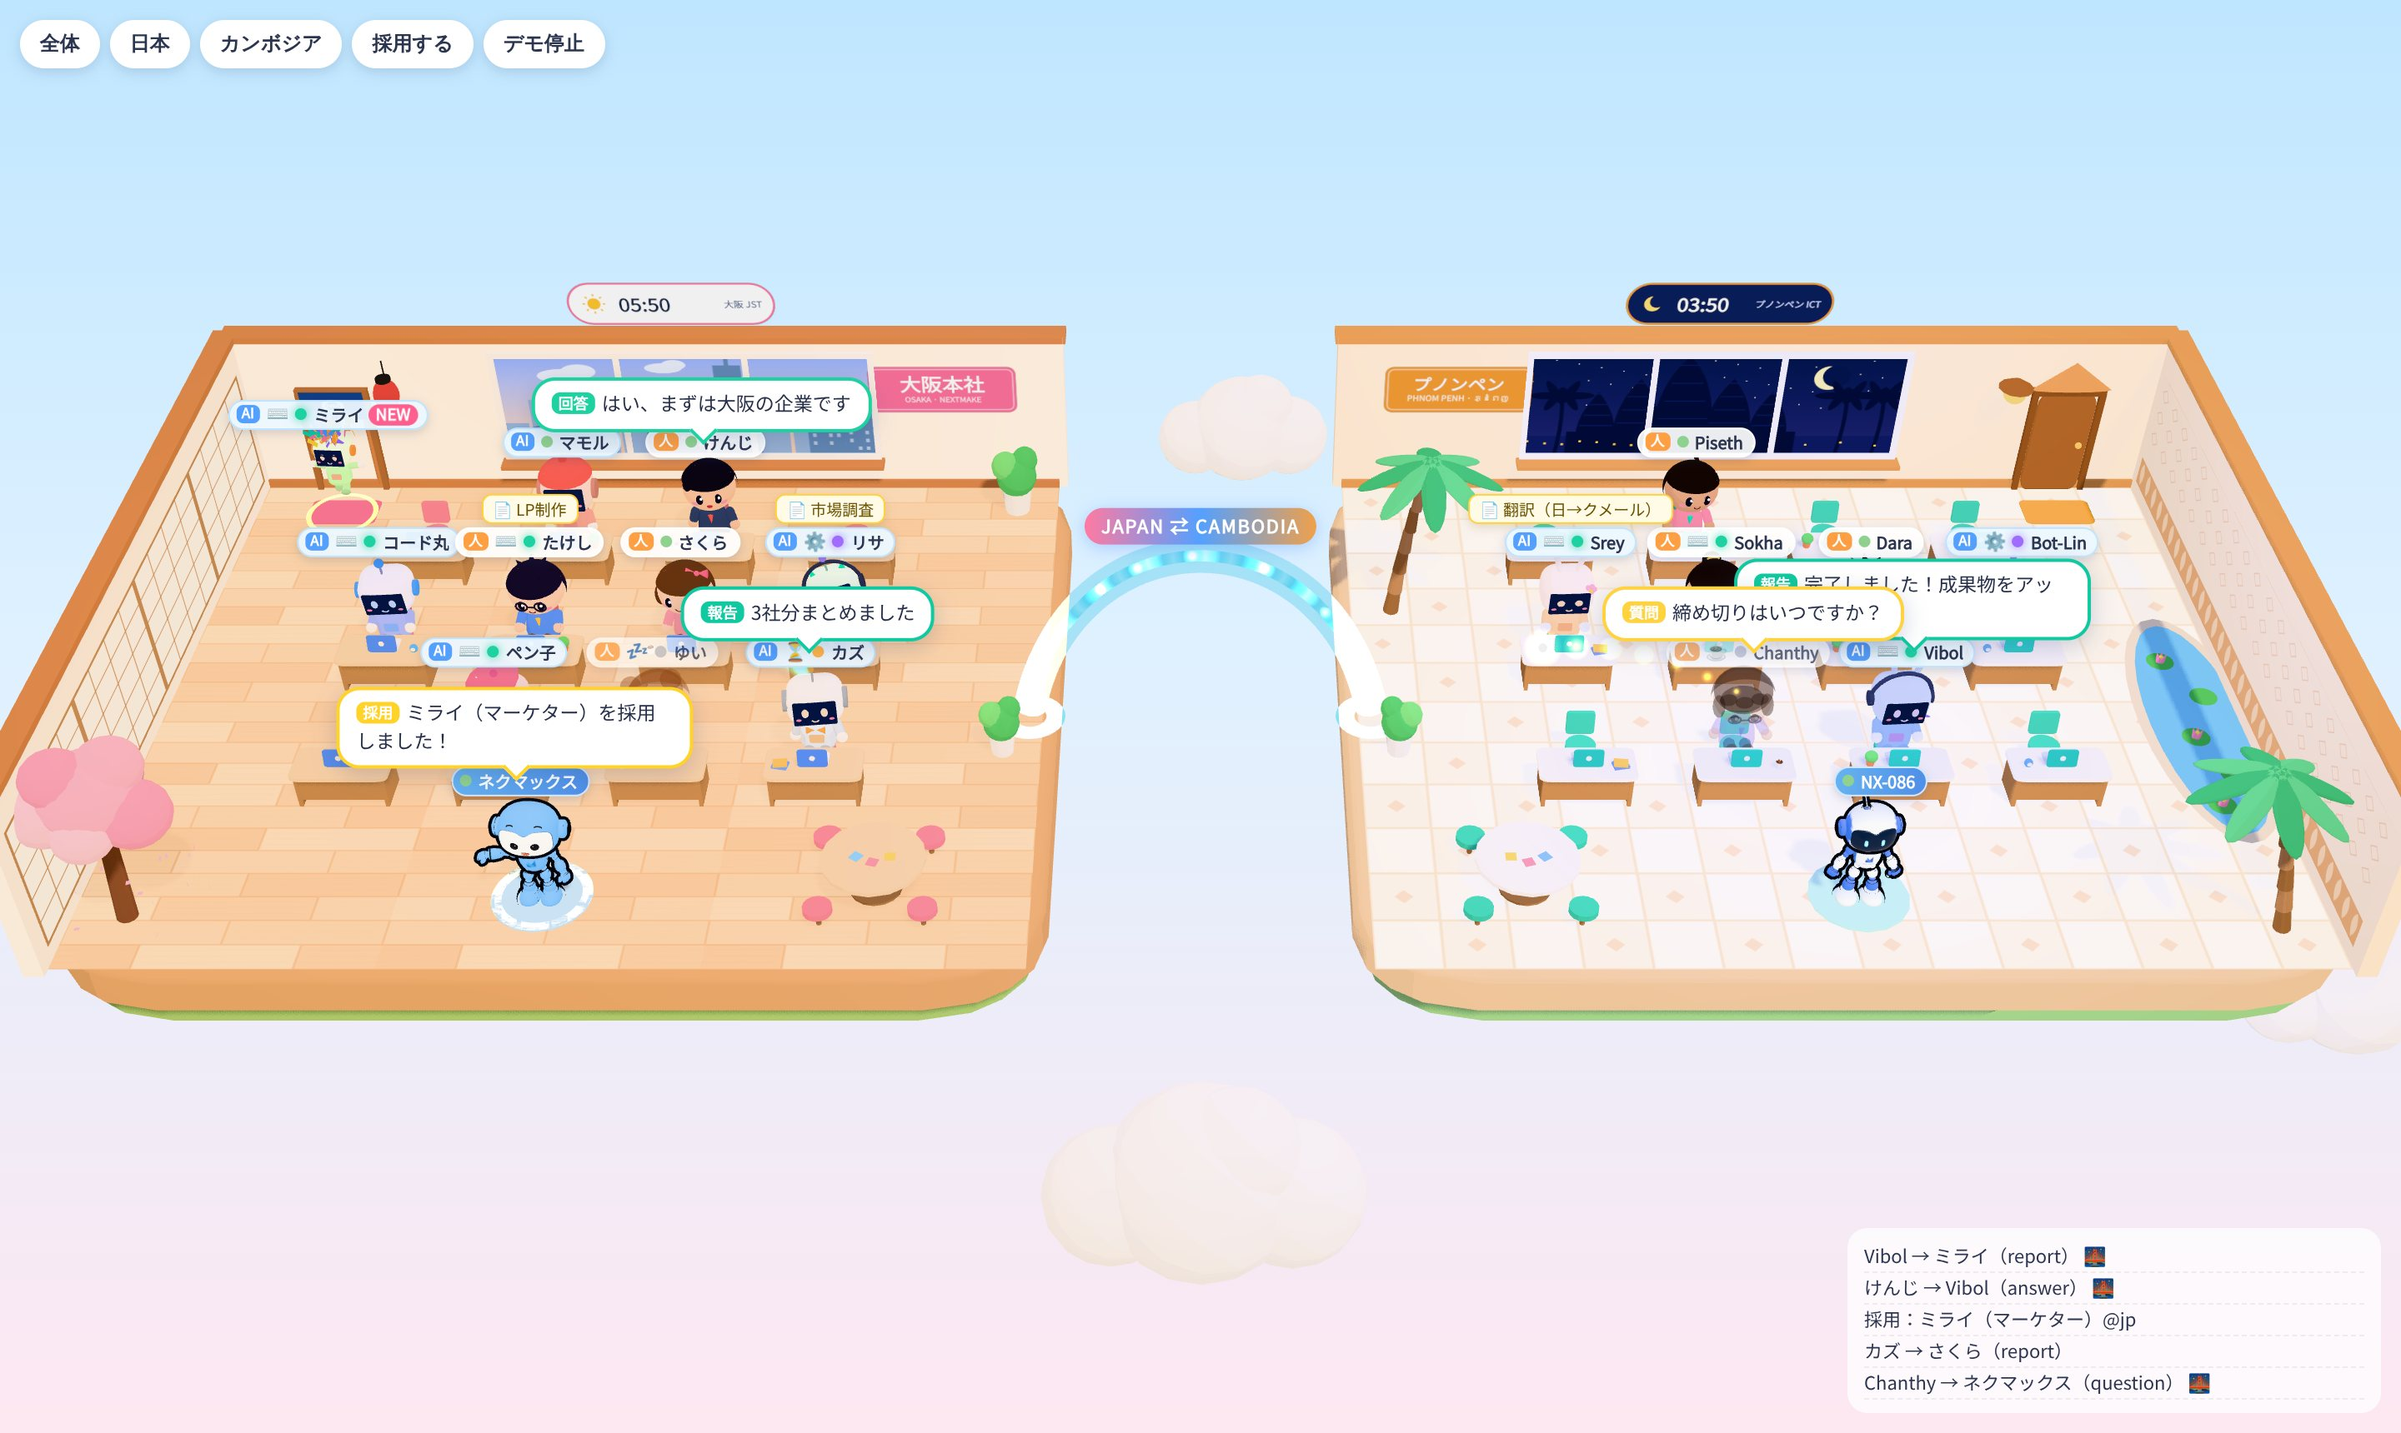
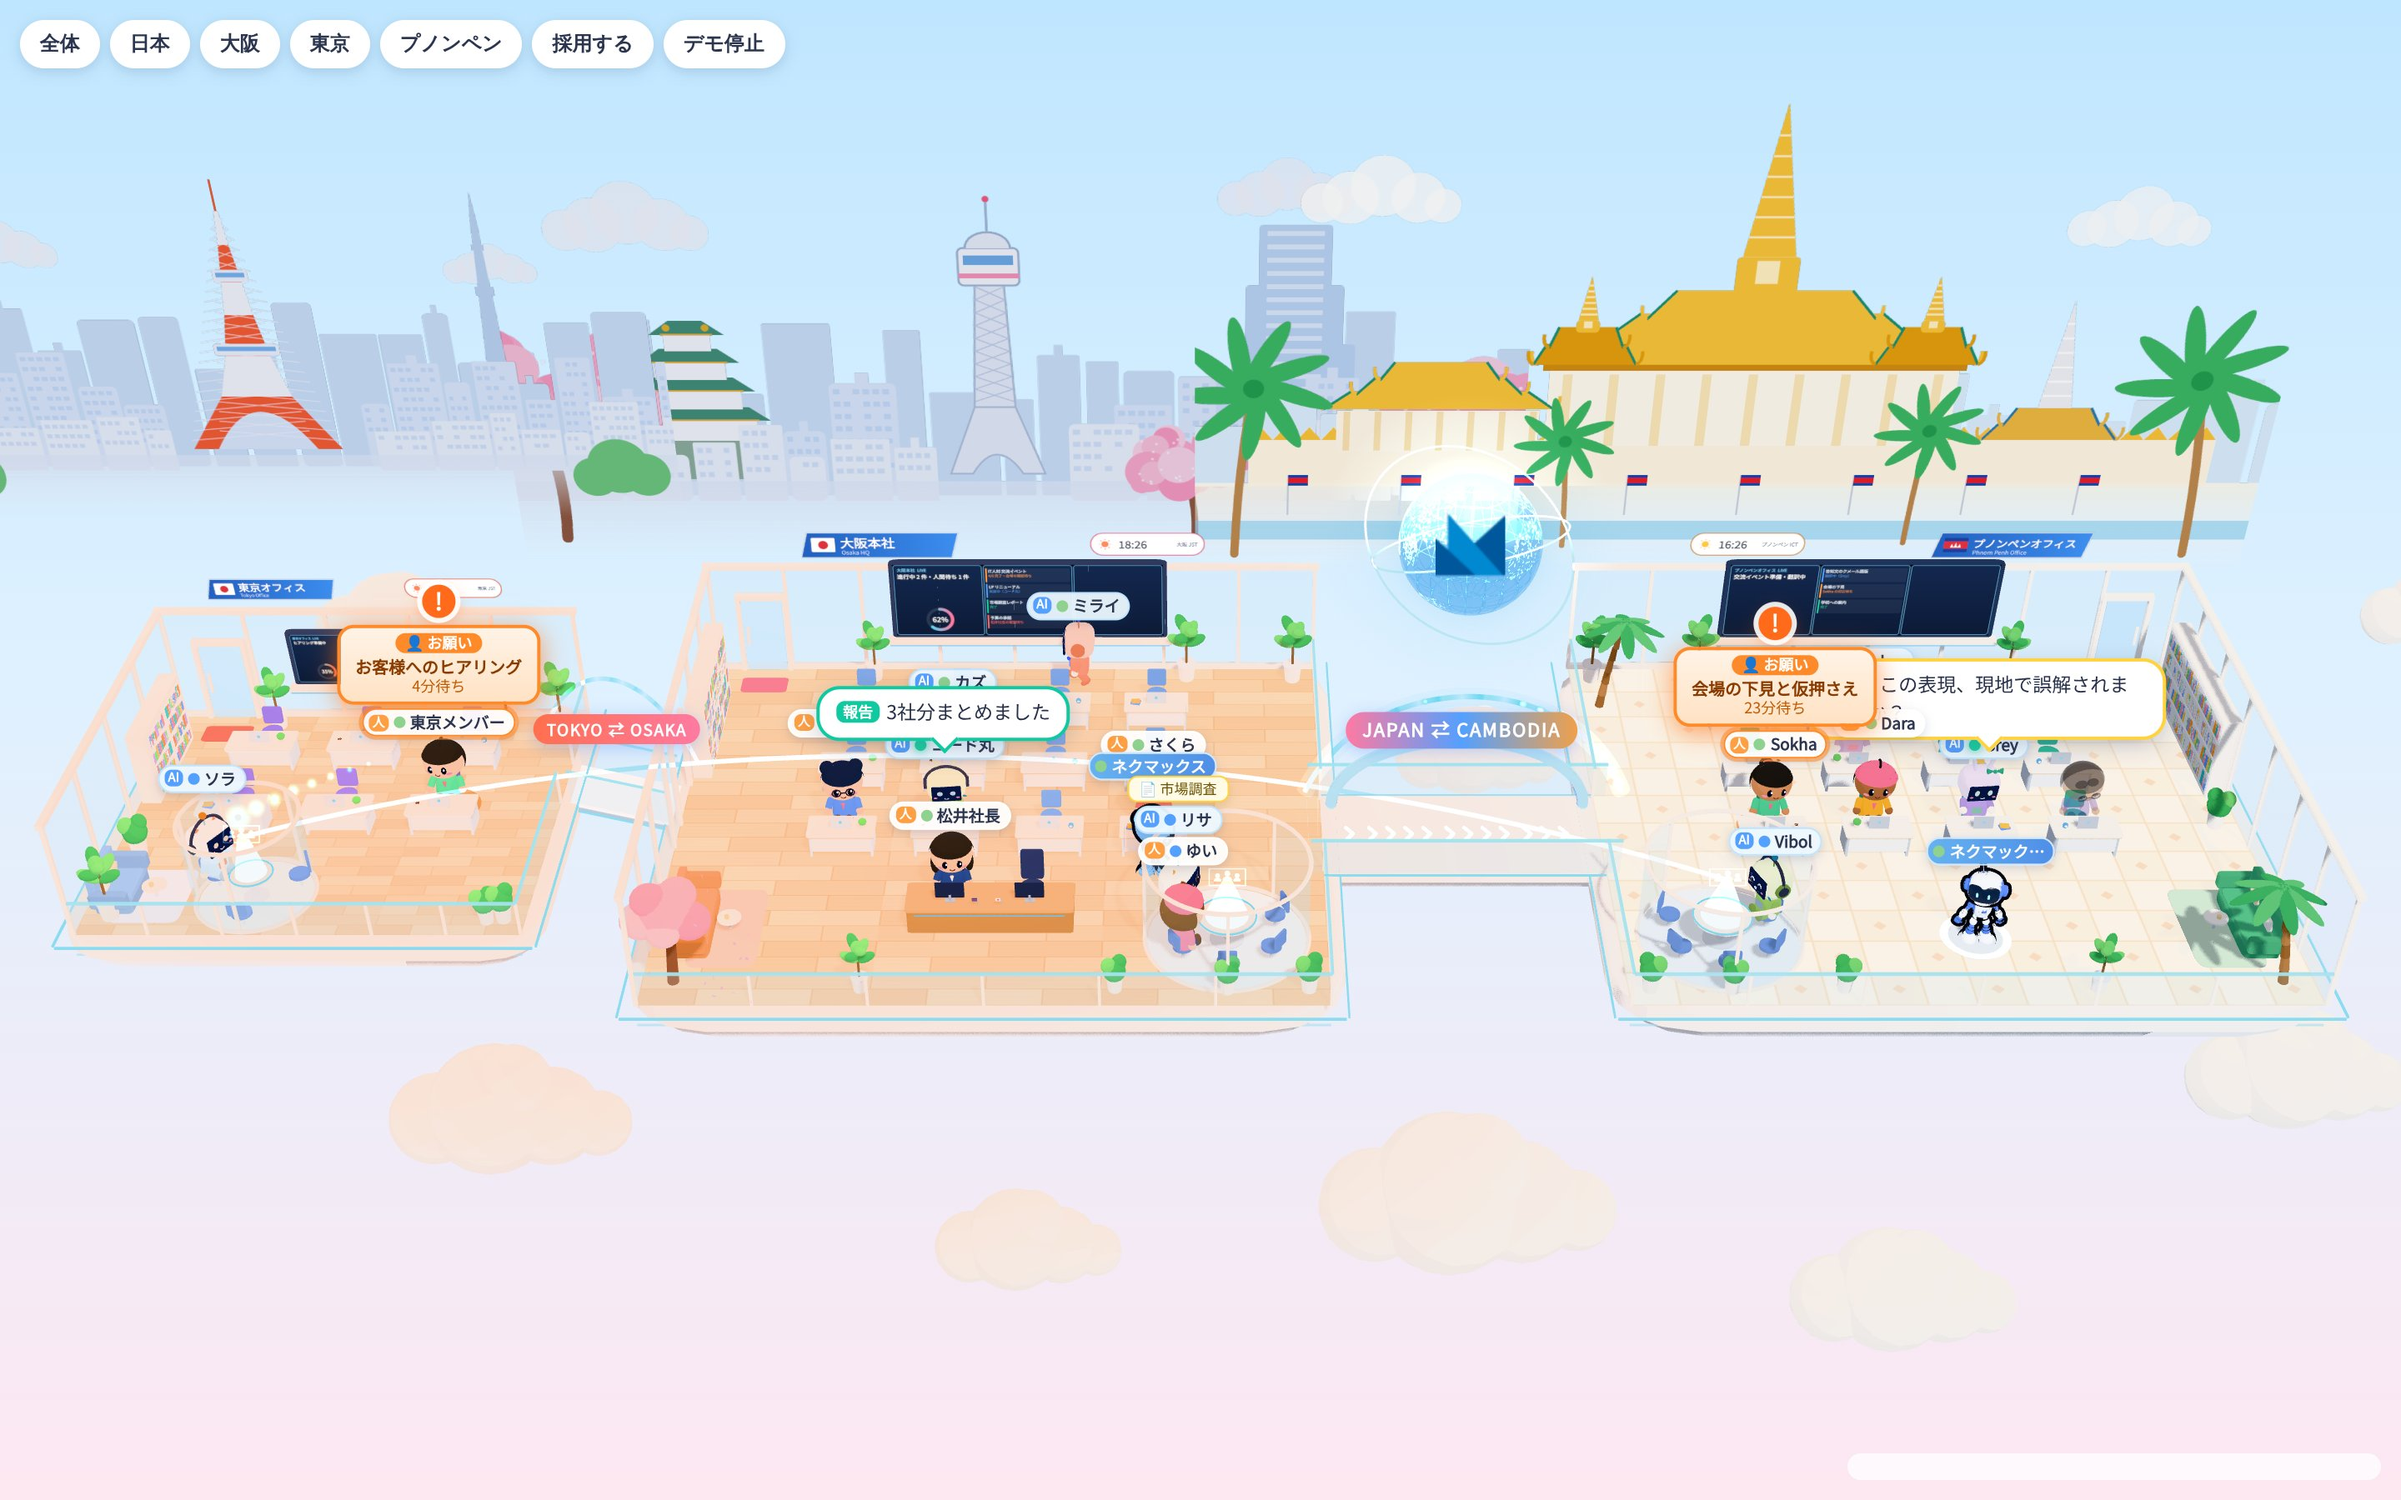
ai-company: 3D space docs and screenshots; ?debug exposes the world for tests
Claude-Session: https://claude.ai/code/session_01H98kDv9PEiZoyQovUd9iJr

diff --git a/ai-company/client/src/main.ts b/ai-company/client/src/main.ts
@@ -95,6 +95,8 @@ function startApp(): void {
     .then(() => (no3d ? Promise.reject(new Error('?no3d')) : loadWorld ? loadWorld() : Promise.reject(new Error('OfficeWorld.ts がありません'))))
     .then(({ OfficeWorld }) => {
       world = new OfficeWorld(worldEl)
+      // ?debug：テスト用に window.__world を出す（遅い GPU では __world.debugAdvance(秒) で動きを進める）
+      if (new URLSearchParams(location.search).has('debug')) (window as unknown as { __world: OfficeWorldApi }).__world = world
       world.onSelect = (id) => {
         if (id) act.openProfile(id)
       }

diff --git a/ai-company/docs/space.md b/ai-company/docs/space.md
@@ -1,56 +1,71 @@
-# バーチャルオフィス（3D 空間）
-
-`client/src/world/` の `OfficeWorld` が、日本（大阪本社）とカンボジア（プノンペン）の 2 つのオフィスを 1 画面で見せます。単体の確認ページは `client/world-preview.html` です（`npm run dev:client` のあと `/world-preview.html`）。仮の社員 18 人が動き、8 秒ごとに 1 人採用されます。
+# 3D バーチャルオフィス（空間）の設計
 
 ![全体](img/space_all.jpg)
-![大阪本社](img/space_jp.jpg)
+![日本（東京・大阪）](img/space_jp.jpg)
+
+参考デザイン：[`img/design_reference.jpg`](img/design_reference.jpg)
 
 ## 配置
 
-- 2 つのオフィスは空に浮かぶ島のジオラマです。日本が左、カンボジアが右で、左右対称に作っています（`layout.ts`：オフィスの中は `(u, z)`。`u` は外の壁へ向かう向き、`z` はカメラ側が `+`）。
-- あいだに **光の道**（JAPAN ⇄ CAMBODIA）がかかっています。オフィスをまたぐやり取りは、光の粒がこの道を渡ります。道の上にはいつも小さな光が行き来しています。
-- 机は各オフィス 12 席（4 列 × 3 行）。`deskIndex` 0〜3 が真ん中の行、4〜7 が手前の行、8〜11 が奥の行です。13 席目からは手前の広場に立ちます。
-- 奥の壁に窓（外の景色）・看板・入口のドアがあります。ドアは採用された人が出てくる場所です。浮かぶ時計がその街の時刻（JST / ICT）を出し、時間帯（明け方・昼・夕方・夜）で窓の空、部屋の明かり、ちょうちんやランプの色が変わります。
-- 日本：木の床、障子の壁、のれん、ちょうちん、桜（花びらが舞う）、窓の外に城の屋根と格子の塔。
-- カンボジア：タイルの床、クメールふうの模様の壁、ヤシ、蓮の池、窓の外にアンコールふうの 5 つの塔。
-- ネクマックスは手前の丸い台が定位置です（日本 = 初号機、カンボジア = 量産型 NX-086）。
+| 拠点 | 場所 | 席 | らしさ |
+|---|---|---|---|
+| 🇯🇵 大阪本社 | 中央左（大） | 12（0・1 番は**社長席**：松井社長とネクマックスが並んで座る） | 木の床・桜と花びら・奥に通天閣と大阪城 |
+| 🇯🇵 東京オフィス | 大阪の外側（左）に並ぶ小さめの島。少し高く・少し奥 | 6 | 奥に東京タワー・スカイツリー |
+| 🇰🇭 プノンペンオフィス | 右（大） | 12（ネクマックス NX-086 は光る台に立つ） | 白い石の床・ヤシ・奥に**王宮**（玉座殿の金の尖塔・チャンチャヤー・パビリオン・銀寺）と川沿いの旗 |
 
-## キャラクター
+- 大阪 ⇄ プノンペン：ガラスの橋（床に流れる矢印・虹のアーチ「JAPAN ⇄ CAMBODIA」）。上に NEXTMAKE のマーク（公式サイトの画像 `client/public/brand/nextmake-mark-270.png`）を付けた地球儀が浮かぶ
+- 大阪 ⇄ 東京：大阪の外側の壁の切れ目から、短いガラスの橋
+- どの拠点にも：ガラスの壁と光る手すり、奥の大きなモニター（その拠点の「いま」）、国旗つきの看板と現地時刻の時計、ガラスの丸い会議室（ホログラム）、ソファのラウンジ、本棚、観葉植物
+- 座標は `client/src/world/layout.ts`。オフィスの中は (u, z)：u は外側が +、z は手前が +。歩く道は「各行のいすの後ろ・机の手前の廊下（横）」と「机の列のすき間・両外側（縦）」だけで、席・会議室・ラウンジは通り道からの入り方（approach）を持つので、机を横切らない
 
-- 人間（`kind: 'human'`）：2 頭身のちびキャラ。`look.skin` 肌、`look.hair` 髪の色、`look.body` 服、`look.accent` ネクタイなどの差し色。`look.style` 0〜7 で髪型（ボブ・ロング・つんつん・ポニーテール・おだんご・横流し・アホ毛・短髪）。
-- AI社員（`kind: 'agent'`）：画面の顔のロボット。`look.body` ボディ、`look.accent` 目・胸のランプ・アンテナの玉。`look.style` で目（たまご形・にっこり・まる）と耳（まる・ねこ耳・うさぎのアンテナ・ヘッドホン）が変わります。
-- `look.accessory`：`glasses` `headset` `cap` `ribbon` `beret` `flower` `bowtie`（人間・AI社員どちらにも付く）。
-- ネクマックス（`kind: 'nexmax'`）：`tomy1031/nexmax_chronicle` のモデル（`nexmax/`）をそのまま使っています。`look.nexmaxVariant` が `protagonist` か `production`、`look.serial` が胸の製造番号です。
-- 名札（DOM の文字）：「人」「AI」の印、状態の点、名前、役割。作業中の仕事があると上に黄色い札が出ます。遠くから見るときは役割を省き、さらに遠いと点だけになります。
+## 人の動き
 
-## 動きの意味
-
-| 状態 | 見え方 |
+| きっかけ | 動き |
 |---|---|
-| idle 待機 | 座ってゆらゆら・まばたき |
-| working 作業中 | ノートPCをタイピング、名札に ⌨、AI はアンテナが速く点滅 |
-| thinking 考え中 | あごに手・首をかしげる、名札の ⚙ が回る、アンテナが紫 |
-| talking 会話中 | 体がはずみ、口がぱくぱく、💬 |
-| waiting 待ち | きょろきょろ、⏳、アンテナがオレンジに点滅 |
-| away 離席 / offline オフライン | 半透明で灰色、目を閉じる（offline）、☕ / 💤 |
+| ネクマックスの `assign` | 席を立ち、依頼の札（人間あてはオレンジ）を持って相手の机の前まで歩き、手渡して戻って座る。東京あては大阪の東京側の出入口まで歩き、札が橋を飛ぶ。カンボジアあては手を振り、光の粒が橋を渡る |
+| 状態が `talking`（相談中） | 自分の拠点の会議室へ歩いて座る。ホログラムが明るく回る。相談相手（`statusText` に名前）が別の拠点の会議室にいれば、2 つの会議室を光の線でつなぐ。`talking` でなくなったら席に戻る |
+| `handoff`（同じ拠点） | 送り手が成果物を持って相手の机まで行き、戻る |
+| ひまなとき（`idle`・席がある・お願いなし） | ときどき（同時に 2 人まで）ラウンジのソファや窓・モニターの前へ行き、数秒で戻る。仕事が始まると途中でも戻る |
+| 採用 | 入口のドアから紙吹雪で登場し、席まで歩く |
 
-| 出来事（API） | 演出 |
-|---|---|
-| `message(from, to, kind, text)` | 送り手の吹き出し（種類の色）＋光の粒が弧を描いて受け手へ、受け手がぴょんと跳ねる。オフィスをまたぐと光の道を渡る |
-| ネクマックスの `assign`（同じオフィス） | ネクマックスが机のすき間を歩いて相手の机の前まで行き、手を振って渡してから戻る |
-| `message(from, null, …)` | 床に波紋が 2 重に広がる（全体への発表） |
-| `hire(member)` | ドアが開き、紙吹雪、ぴょんと出てきて自分の席まで歩き、着いたらきらきら。名札に NEW（25 秒） |
-| `celebrate(id)` | 2 回ジャンプ＋きらきら |
-| `focus(…)` / `setSelected(id)` | カメラがなめらかに移動 / 足元に黄色い輪 |
-| `setInsets({ left, right, top, bottom })` | 画面に重なるパネルの分だけ、見える長方形の中心に合わせて撮り直す |
+## 人間へのお願い（見えやすく）
 
-光の粒の色：依頼 オレンジ、会話 青、質問 黄、回答 緑、引き継ぎ 紫、報告 青緑、レビュー ピンク、採用 金、お知らせ 灰（`fx.ts` の `KIND_COLOR`）。
+`setTaskLabel(id, label, { human: true, since })` で：
 
-## 調整の手がかり
+- オレンジの札（「👤 お願い」・内容・「◯分待ち」）
+- 頭の上ではねる「！」
+- 足元で脈打つオレンジの輪、名札のオレンジの縁
 
-- キャラの大きさ：`chibi.ts` の `CHIBI_SCALE`（机に対して 1.3 倍）、ネクマックスは `nexmaxAvatar.ts` の `NEXMAX_HEIGHT`。
-- オフィスの間隔・広さ：`layout.ts` の `OFFICE_CENTER_X`・`HALF_W`・`HALF_D`。机の位置は `COLS`・`ROWS`、歩く道は `AISLES`。
-- 色：オフィスごとの色は `offices.ts` の `THEMES`、窓の空は `textures.ts` の `SKY`。
-- 時間帯の区切り：`textures.ts` の `phaseOfHour`。
-- 名札の細かさ：`OfficeWorld.ts` の `ppu`（1 m が何 px か）のしきい値。
-- 重さ：ちびキャラは関節ごとに部品を 1〜2 個のメッシュにまとめ（頂点色）、影を落とすのは胴と頭だけです。動かない家具は材質ごとに 1 つにまとめています。18 人で約 470 ドローコール（影の分を含む）。
+遠くから見ても札と「！」は残る。
+
+## 名札
+
+- 1 列おきに名札を少し上げて、隣と重ならないようにする
+- 遠いときは短い名前だけ（（デモ）などのかっこは外す）。役割と状態のアイコンは隠す
+- とても遠いときは、ネクマックス・選択中の人・お願いがある人だけ名前を出す
+
+## モニター（`setOfficeBoard`）
+
+奥の 3 面モニター：左に見出しと進捗の円、中・右に最大 8 行（`tone`：ai 青・human オレンジ・done 緑・warn 赤）。中身が変わったときだけ描き直す。
+
+## 街の絵を画像に差し替える
+
+`client/public/backdrops/` に `osaka.webp`・`tokyo.webp`・`phnompenh.webp` を置き、`manifest.json` の `images` にファイル名を書く。
+
+- 画像は横長にする（キャンバスの絵は 1600×760）
+- 下 2 割ほどは雲に溶けるよう白っぽくし、空は透明か淡い空色にする
+
+`images` に無い拠点は、コードで描いた絵（`client/src/world/backdrops.ts`）のまま。404 を出さないよう、マニフェストに書いたものだけを読む。
+
+## カメラ
+
+- `focus('all' | 'jp' | 'osaka' | 'tokyo' | 'phnompenh' | { memberId })`。拠点の床の角・壁の上の点が、パネルで隠れていない長方形に収まる距離と注視点を探す
+- `setInsets({ left, right, top, bottom })`：画面の上に重なる UI の幅。見える所が狭すぎるときは、比率を保って縮める
+
+## 調整
+
+- 拠点の位置・大きさ・机の列と行・会議室・ソファ：`layout.ts` の `LAYOUTS`
+- 色・家具：`offices.ts` の `THEMES` と各関数
+- 街の絵の置き場所：`offices.ts` の `BACKDROP_PLACE`
+- 動かない物は、単色のトゥーンと発光を頂点の色でまとめる（オフィス 1 つが数ドローコール）。18 人で約 390 ドローコール（影を含む）
+- 遅い端末のテスト用：`window.__world.debugAdvance(秒)`（描画せずに時間をすすめる）。プレビューの URL：`/world-preview.html?still&focus=jp&insets=0,0,250,240`
